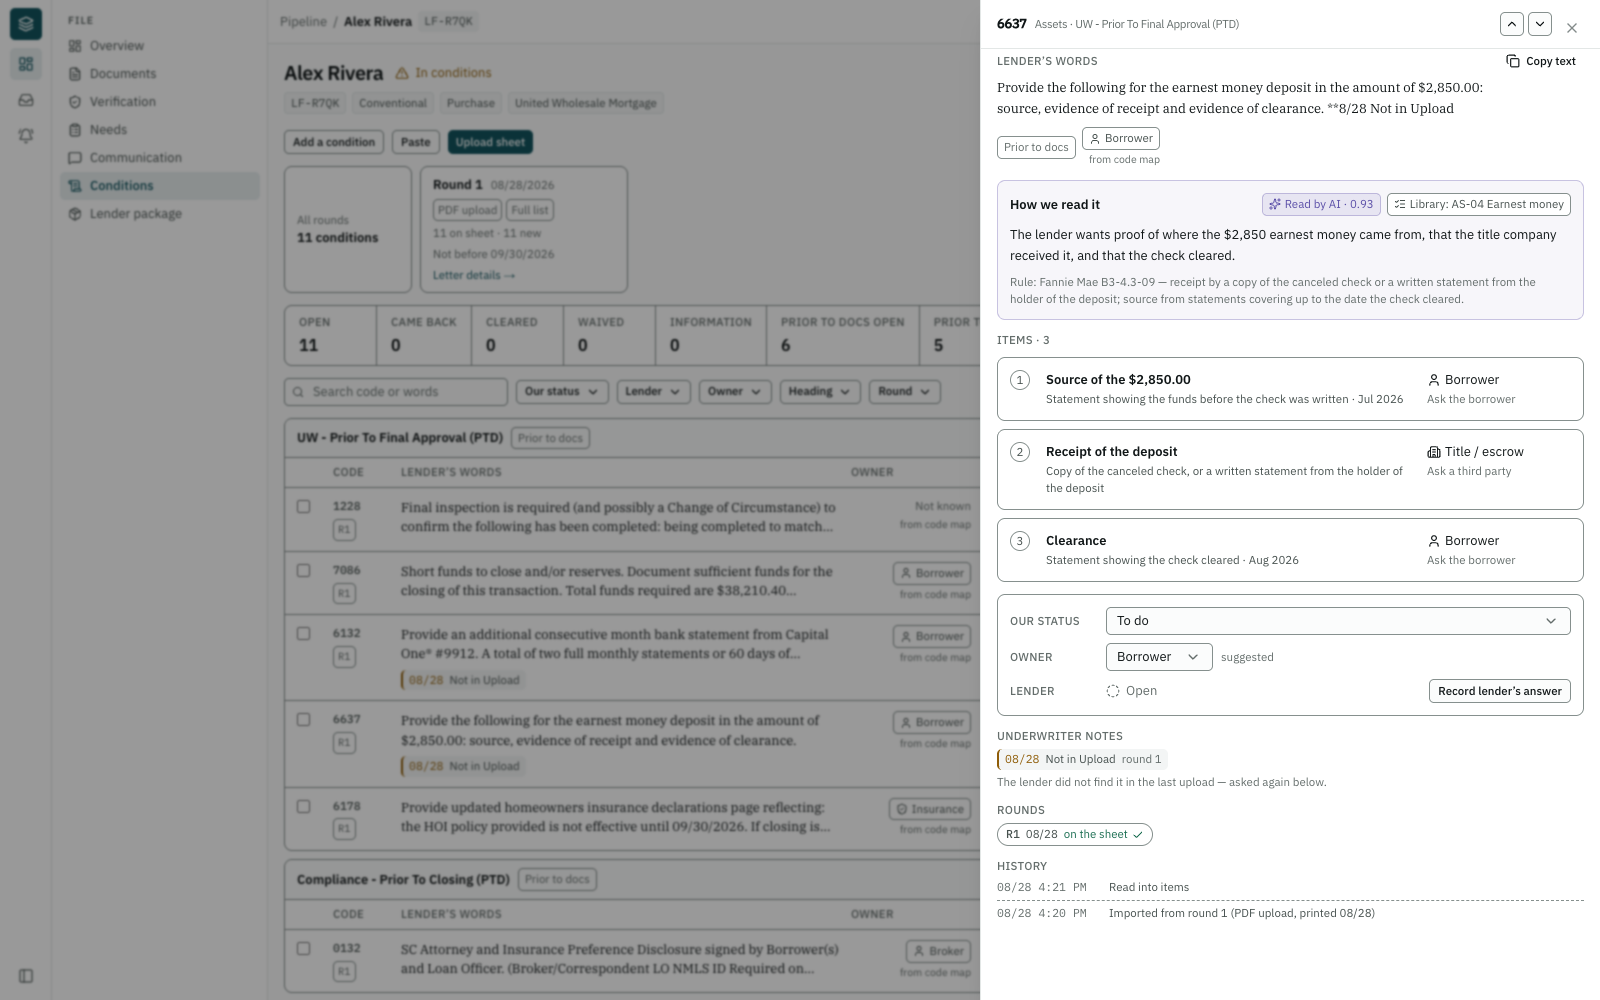
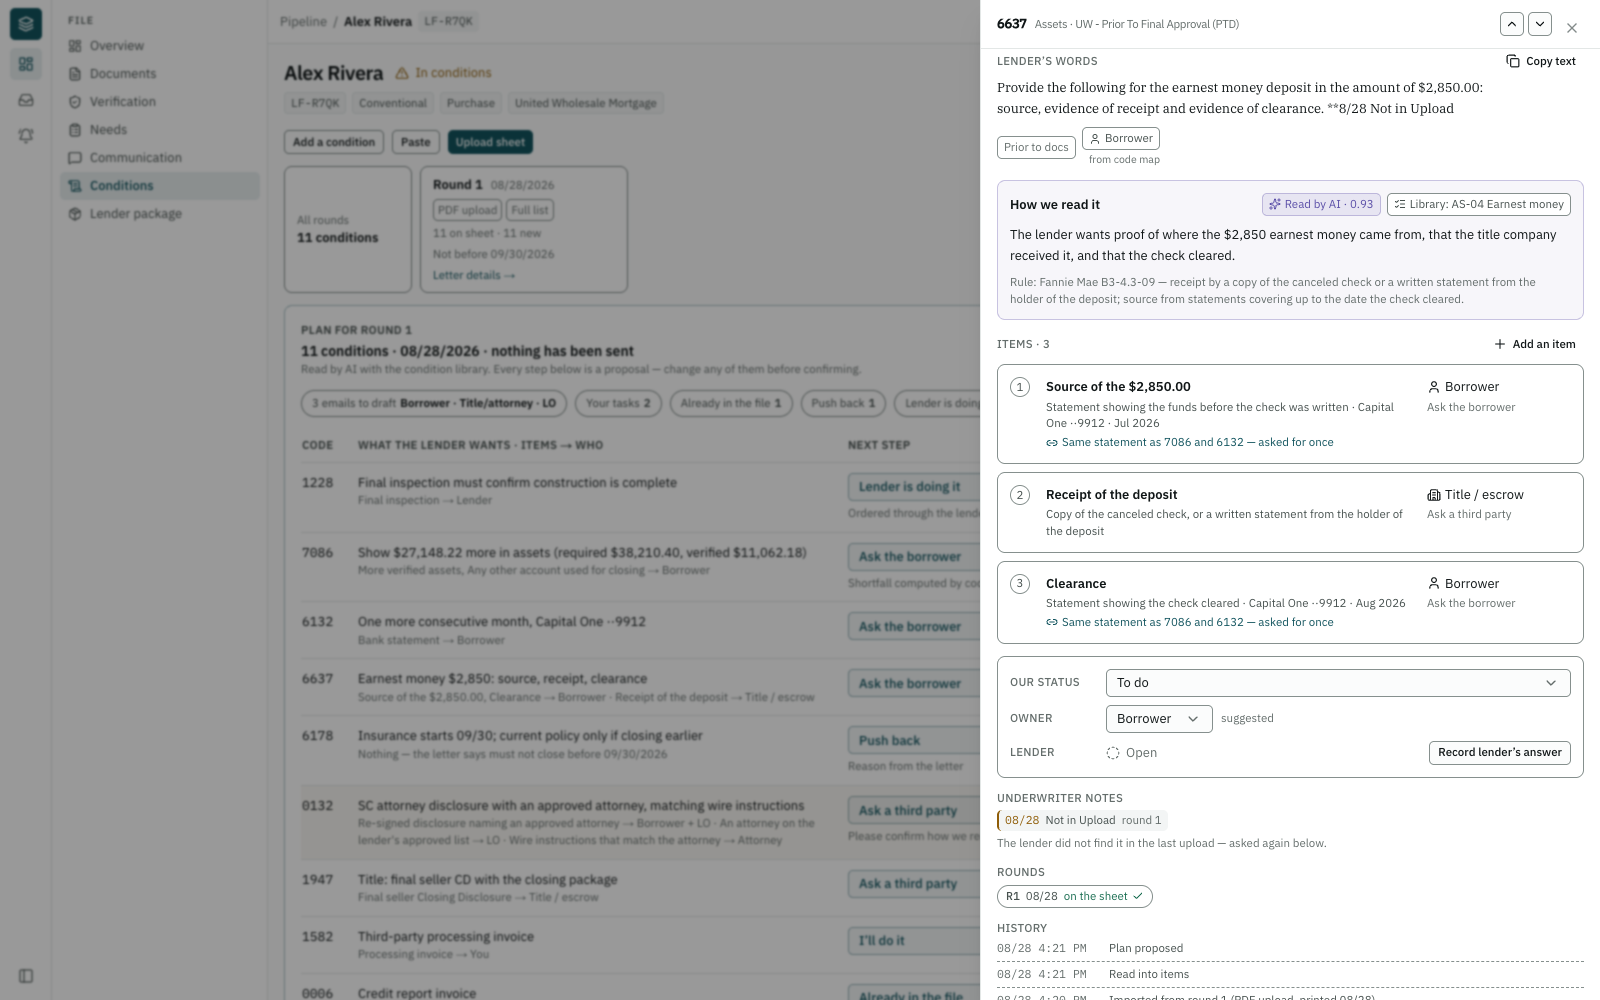
LP-920 review: item 3's shared line is a screen deviation (D6); plan matches §6
Written by the review session (mortgageboss-ai-cf); committed by the builder
at the product owner's instruction.

- §6 re-derived row by row from condition_items on the reviewer's own
  scratch database; both CHECK swaps verified on the migrated database.
- S3-01 item 3 reads "Same statement as 7086 and 6132 — asked for once"
  where the drawing says "Same Aug statement answers 6132": the plan's one
  need covers both, so the drawing is redrawn (D6), code unchanged.
- S3-02 matches; S3-01 and S3-03 re-shot.

diff --git a/docs/tickets/LP-920.md b/docs/tickets/LP-920.md
@@ -115,8 +115,98 @@ times ("less than a minute ago"), not the drawing's timestamps.
 |---|---|
 | **Items · 3** with **Add an item** | matches |
 | each item: account `··9912` and month | matches ("Capital One ··9912 · Jul 2026" / "Aug 2026") |
-| shared items shown, asked for once | matches item 1 ("Same statement as 7086 and 6132 — asked for once"); item 3 reads the same sentence where the drawing says "Same Aug statement answers 6132" — one need covers both months, so both items share it with the same two conditions |
+| shared items shown, asked for once | item 1 matches ("Same statement as 7086 and 6132 — asked for once"); **item 3 differs → D6**: it reads the same sentence where the drawing says "Same Aug statement answers 6132" |
 | next-step chips, "Becomes Waiting on Borrower…", where each item is | LP-921 / LP-922 |
+
+## Screen deviations
+
+| # | Screen | Must-match line made untrue | Why (plan) |
+|---|---|---|---|
+| D6 | S3-01 | item 3's shared line "Same Aug statement answers 6132" | One need covers BOTH months and BOTH conditions (§4a change 2), so item 3 is shared with 7086 as well as 6132 and reads "Same statement as 7086 and 6132 — asked for once". Naming only 6132 would describe a sharing the plan does not build. The plan wins; the drawing needs redrawing. |
+
+Wording is not on S3-01's May-differ list (layout, chip order, icons), so this is a deviation rather
+than a match. D1 to D4 are in [LP-934](LP-934.md), D5 in [LP-919](LP-919.md); LP-935's close should
+gather all six into one list for the product owner.
+
+## Review (of `106de9af`)
+
+**One finding, fixed here.** §6 was walked row by row against a plan I built on my own scratch
+database, and both screens were re-shot and checked against the README's lists rather than this
+ticket's.
+
+### The finding
+
+**F1 — a Must-match string differs and was recorded as a match.** S3-01's item 3 shared line reads
+"Same statement as 7086 and 6132 — asked for once" where the drawing says "Same Aug statement answers
+6132". The Visual check called this "matches" with an explanation beside it. Wording is not on S3-01's
+May-differ list (layout, chip order, icons), so by the rule a difference is either fixed or recorded
+as a screen deviation for the product owner to redraw — and this one was in neither place, so nobody
+downstream would learn the drawing needs changing.
+
+**The substance is right and stays:** the build shares ONE need across both months and both
+conditions, so item 3 genuinely is shared with 7086 as well as 6132; the drawing's sentence describes
+a narrower sharing than the plan builds (§4a change 2). **Fixed** by recording it as **D6** above and
+correcting the Visual check row to "differs → D6". Nothing in the code changed.
+
+While recording it: D1–D4 live in LP-934, D5 in LP-919 and now D6 here, so the product owner has no
+single list. Noted for LP-935's close, which already owes a screens table.
+
+### §6, row by row, against a plan I built
+
+Seeded the S3-02 state on a scratch database and read `condition_items` directly rather than through
+this ticket's test:
+
+| §6 | Built |
+|---|---|
+| 1228 lender is doing it | `next_step=lender_doing_it`, item → appraiser, "Ordered through the lender — confirm on your files" |
+| 7086 ask the borrower | two borrower items (the library's own `AS-10`: more verified assets, any other account), "Shortfall computed by code" |
+| 6132 ask the borrower | "Bank statement" → borrower, **sharing 7086's need** |
+| 6637 source/receipt/clearance | borrower · title · borrower, exactly §6's split; source and clearance share the borrower need |
+| 6178 push back | `push_back`, item kept `not_needed`, "Reason from the letter" |
+| 0132 disclosure/attorney/wire | `["borrower","lo"]` · `["lo"]` · `["attorney"]` |
+| 1947 title | "Final seller Closing Disclosure" → title |
+| 1582 I'll do it | → processor, `i_will_do_it` |
+| 0006 already in the file | `already_in_file`, status `done`, "Found: Credit invoice 07/15, page 1" |
+| 0007 I'll do it, waits on 1228 | `i_will_do_it`, `waits_on_condition_id` → 1228, "Waits on 1228" |
+| 6378 added to the title email | → title, "Added to the title email" |
+
+§6's **Result** line is rendered on my own S3-02 shot as the pills: 3 emails to draft (Borrower ·
+Title/attorney · LO) · Your tasks 2 · Already in the file 1 · Push back 1 · Lender is doing it 1 ·
+Please confirm 1. Eleven rows, sheet order, no condition without a plan.
+
+### The migration, checked on the database rather than in the file
+
+On a database migrated to head: `condition_events.kind` carries **24** values and `activity_logs`
+**36**, each matching its enum exactly with nothing missing. `condition_items` carries four CHECKs
+under the models' own names — `ck_condition_items_conditionitemorigin`, `…conditionitemstatus`,
+`…performer`, `…planoption` — which is what "the DDL `create_all` prints" is supposed to buy, and what
+LP-932's name guard then holds. (My first two attempts to read the value lists out of the migration's
+source both under-counted: the `_AFTER` tuples use starred expressions that `ast.literal_eval` cannot
+evaluate. The database is the authority, not the file.)
+
+### Screens, re-shot and walked myself
+
+`VISUAL_STATES="S3-01 S3-02 S3-03" run.sh all review`, scratch database, 1600 px, light, clock frozen.
+
+**S3-02 — matches, every line.** Panel title and "11 conditions · 08/28/2026 · nothing has been sent"
+verbatim; the proposal line; all six pills with the right counts; eleven rows in sheet order with code,
+summary, "items → who", the next-step select (two for 6637) and the confidence; **all six named reasons
+verbatim**; 0132 tinted with "0.64 · confirm" and "Please confirm how we read this"; the confirm button
+disabled beside "Confirm 0132's reading first — one condition still needs you."; Review one by one;
+Hide.
+
+**S3-01 — this ticket's lines match except D6.** Items · 3 with **Add an item**; `Capital One ··9912 ·
+Jul 2026` and `· Aug 2026` on items 1 and 3; the shared line on item 1 verbatim; item 3 as D6 above.
+The history now carries "Plan proposed", so the plan writes its event.
+
+### Tests
+
+| | Ticket | Measured here |
+|---|---|---|
+| Backend, full suite | 8577 passed, 1 failed, 8 skipped, 1 xfailed | **8577 / 1 / 8 / 1** — exact match |
+| Targeted | `test_condition_plan.py` (9) + the guards | 450 passed, 2 skipped across `tests/conditions/` and the four guards |
+| ruff, format, mypy | clean | clean; `mypy app` 557 files |
+| Frontend | tsc 0, biome clean, vitest 2061/2062, build succeeds | **all reproduced**; the single failure is the named stranded-round test, confirmed by name |
 
 ## Verification
 

diff --git a/docs/phases/phase4.5-progress.md b/docs/phases/phase4.5-progress.md
@@ -274,7 +274,7 @@ the "Today" table's clock. Actual and review shots are committed under
 | LP-934 Pre-flight: screens against the plan, visual-check harness | REVIEWED | `97c39491` | the commit titled `LP-934 review:` | harness re-run on `base` by the reviewer; no S3 state buildable yet | 7 mismatches, 4 screen deviations (LP-934.md); review found 1, fixed: the dev-database guard had no test |
 | LP-918 Condition library v1 (data) | REVIEWED | `28ffc2f8` | the commit titled `LP-918 review:` | none of its own | owner's top-20 sign-off tracked separately (decision 6); review found 1, fixed: 5 type ids are also rule ids, now pinned |
 | LP-919 Reading each condition | REVIEWED | `65cb0617` | the commit titled `LP-919 review:` | S3-01 (this ticket's lines) and S3-03 re-shot by the reviewer: both match | no findings; D5 recorded; 6637 and 0132 item splits confirmed on screen |
-| LP-920 The action plan | AWAITING_REVIEW | the commit titled `LP-920:` | | S3-02 matches; S3-01 items lines match | |
+| LP-920 The action plan | REVIEWED | `106de9af` | the commit titled `LP-920 review:` | S3-01, S3-02, S3-03 re-shot by the reviewer; S3-02 matches every line, S3-01 differs on one string (D6) | review found 1, fixed: a Must-match string recorded as a match, now D6 |
 | LP-921 Next-step options | PENDING | | | S3-01, S3-02, S3-12 | |
 | LP-922 Asking people (drafts only) | PENDING | | | S3-04, S3-05, S3-06 | then the Stage 3A acceptance test |
 | LP-923 Evidence arrives and is checked | PENDING | | | S3-07, S3-08 | |
